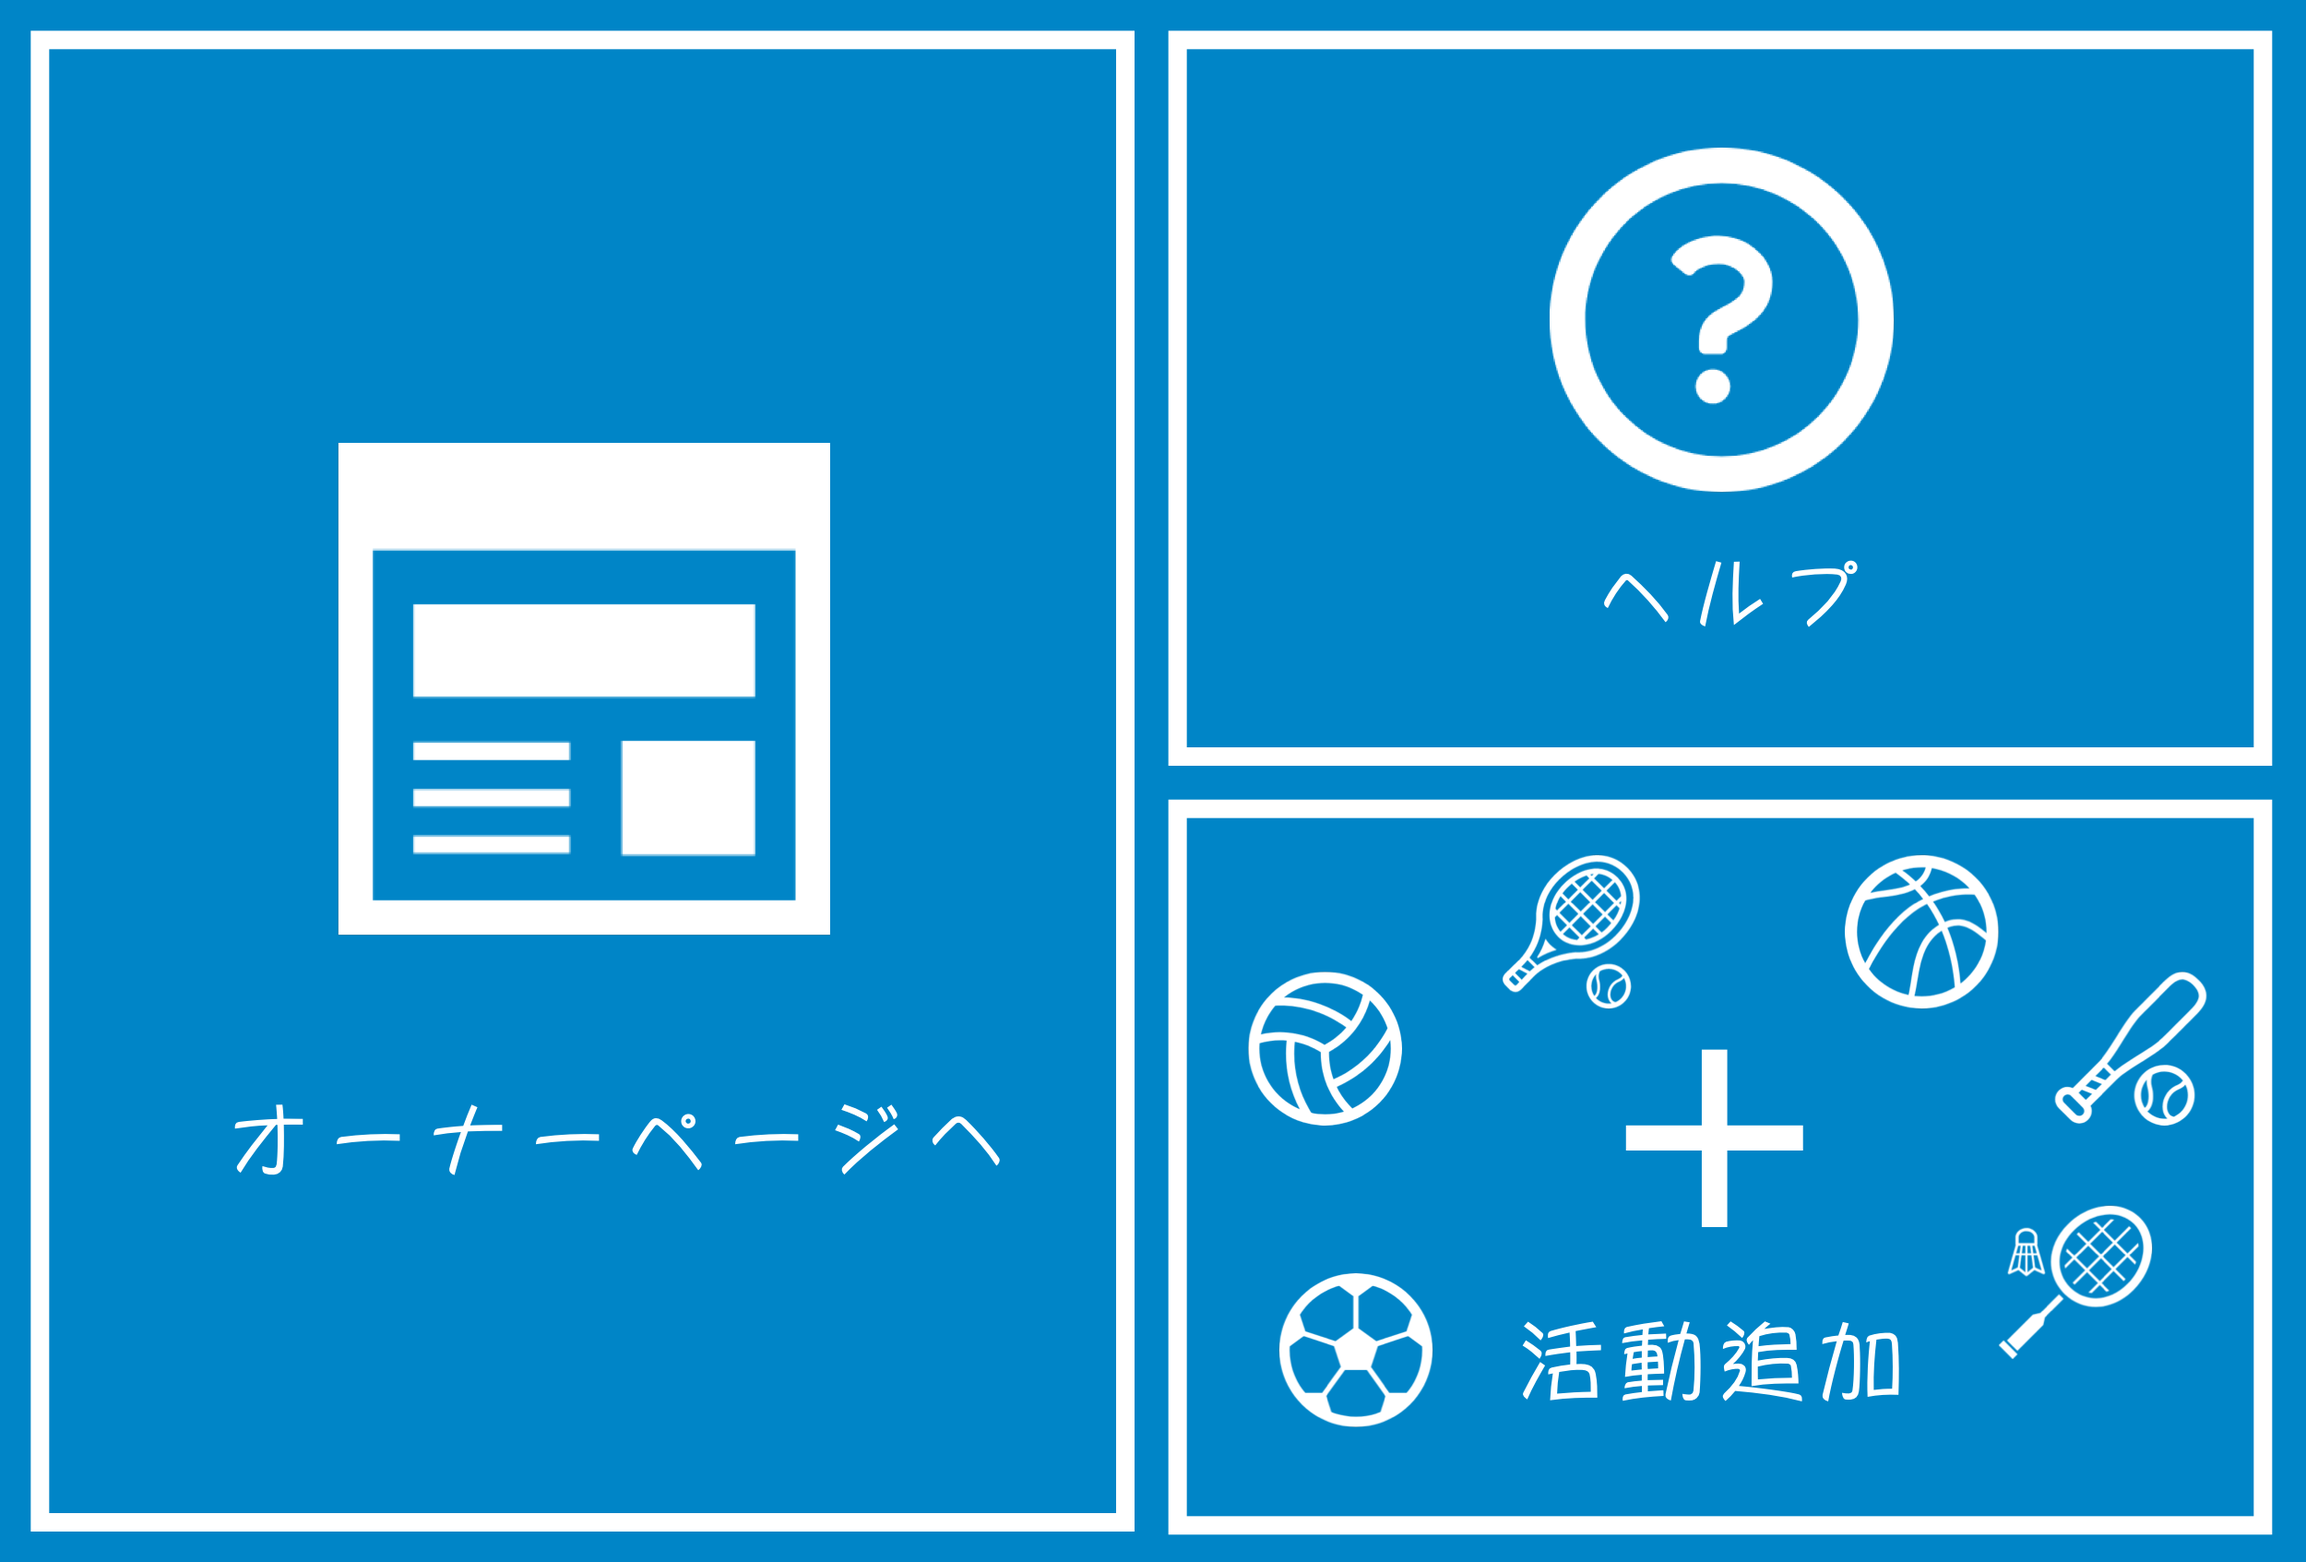
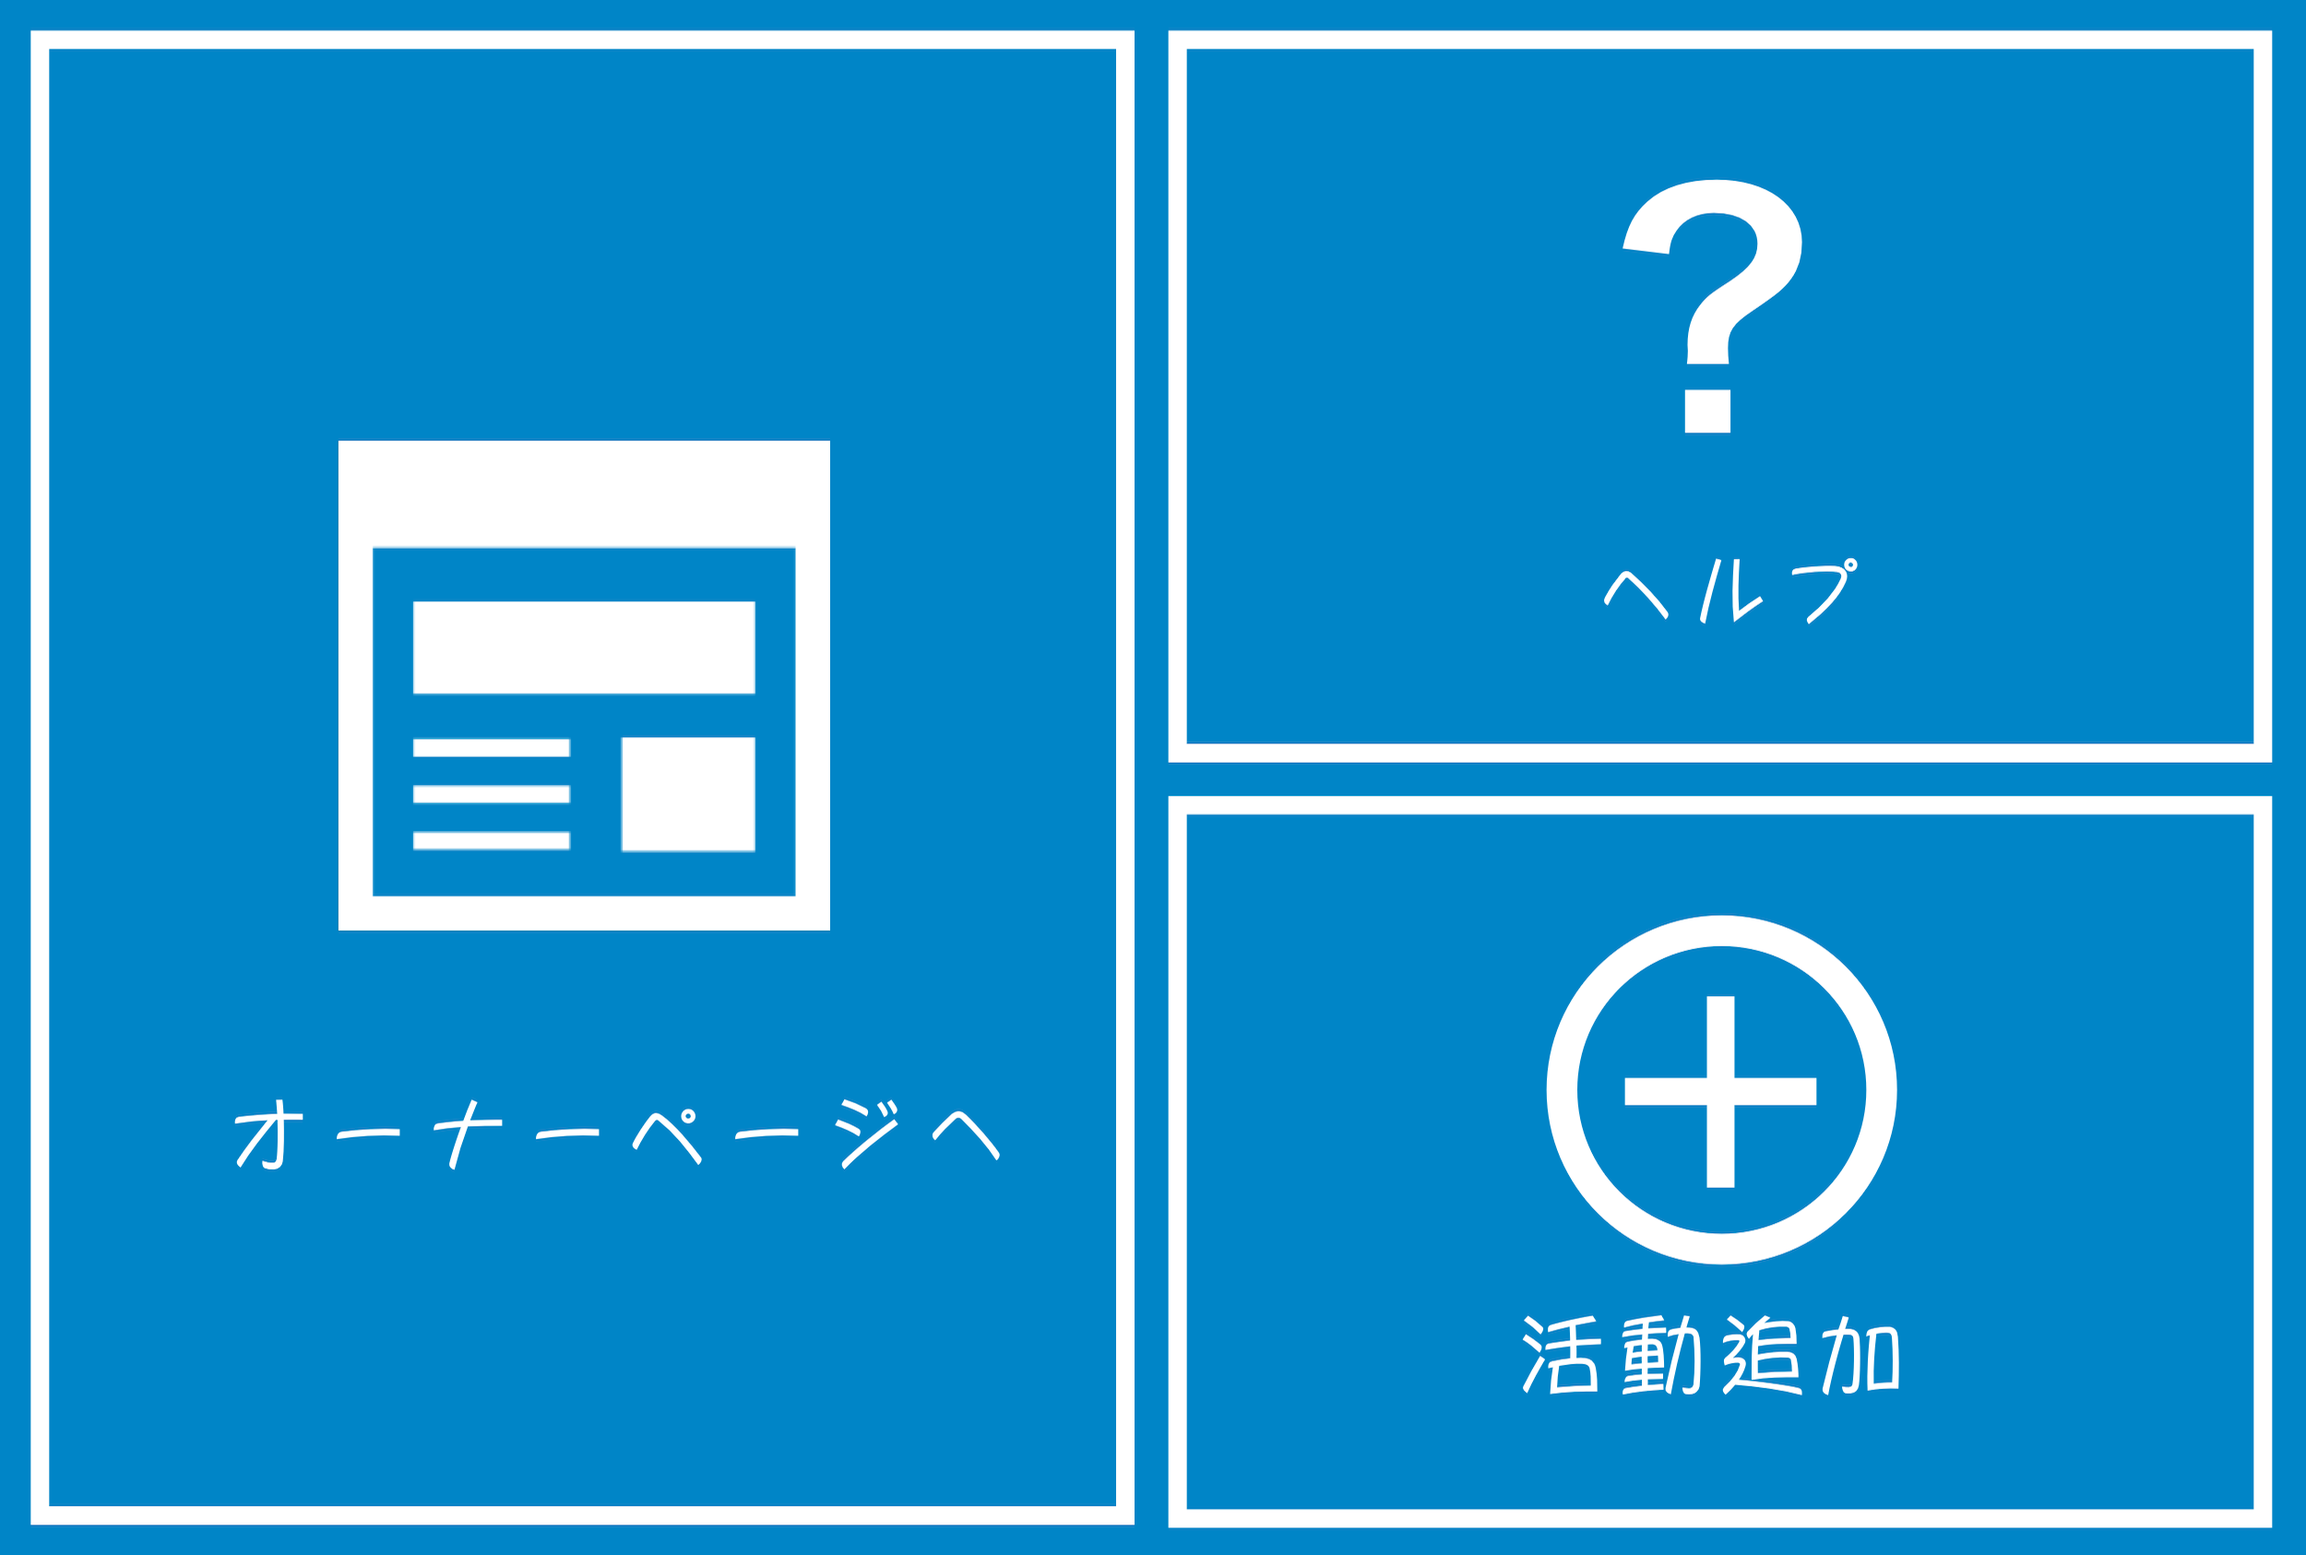
rails c からのRichMenuManagerのインスタンスを呼び出してrunを走らせると設定が終わるようにした

diff --git a/app/app/lib/line_bot/for_user/rich_menu_manager.rb b/app/app/lib/line_bot/for_user/rich_menu_manager.rb
@@ -2,8 +2,8 @@ class LineBot::ForUser::RichMenuManager
   # 基本的にrails cで使う
   # ここのimageとobjectを書き換えてrunの引数に行いたい処理を書いて使う。
   #(現状"create"しか動作確認していない(そんな重要じゃないので後回しにしています))
-  def run str
-    image = File.open("app/assets/images/ricu_menus/root_rich_menu.png")
+  def run
+    image = File.open("app/assets/images/rich_menus/root_rich_menu.png")
     object = {
       "size": {
         "width": 2500,
@@ -27,16 +27,17 @@ class LineBot::ForUser::RichMenuManager
         },
         {
           bounds: {x: 1667, y: 843, width: 833, height: 843},
-          action: {type: "uri", uri: "https://developers.line.biz/ja/reference/messaging-api/#message-action"}
+          action: {type: "uri", uri: " https://yuruspo.herokuapp.com/landing/user"}
         }
       ]
     }
-    create_or_update_rich_menu object, image if str == "create"
-    update_rich_menu_object object if str == "updateObject"
-    update_rich_menu_image image if str == "updateImage"
+    create_or_update_rich_menu object, image #if str == "create"
+    set_rich_menu_to_default(get_rich_menu_object_by_name("root")["richMenuId"])
+    # update_rich_menu_object object if str == "updateObject"
+    # update_rich_menu_image image if str == "updateImage"
   end
 
-  private
+  # private
 
   # すでにあるリッチメニューにのみ意味あり。なかったらエラーを吐く
   def update_rich_menu_image name, image_file

diff --git a/app/app/lib/line_bot/for_circle/rich_menu_manager.rb b/app/app/lib/line_bot/for_circle/rich_menu_manager.rb
@@ -3,8 +3,8 @@
     # 基本的にrails cで使う
     # ここのimageとobjectを書き換えてrunの引数に行いたい処理を書いて使う。
     #(現状"create"しか動作確認していない(そんな重要じゃないので後回しにしています))
-    def run str
-      image = File.open("app/assets/images/ricu_menus/root_rich_menu_for_circle.png")
+    def run
+      image = File.open("app/assets/images/rich_menus/root_rich_menu_for_circle.png")
       object = {
         "size": {
           "width": 2500,
@@ -26,13 +26,16 @@
             bounds: {x: 1225, y: 843, width: 1225, height: 843},
             action: {type: "uri", uri: "https://yuruspo.herokuapp.com/activities/new"}
           }
+        ]
       }
-      create_or_update_rich_menu object, image if str == "create"
-      update_rich_menu_object object if str == "updateObject"
-      update_rich_menu_image image if str == "updateImage"
+      create_or_update_rich_menu object, image #if str == "create"
+      set_rich_menu_to_default(get_rich_menu_object_by_name("root")["richMenuId"])
+      # update_rich_menu_object object if str == "updateObject"
+      # update_rich_menu_image image if str == "updateImage"
+
     end
 
-    private
+    # privateg
 
     # すでにあるリッチメニューにのみ意味あり。なかったらエラーを吐く
     def update_rich_menu_image name, image_file
